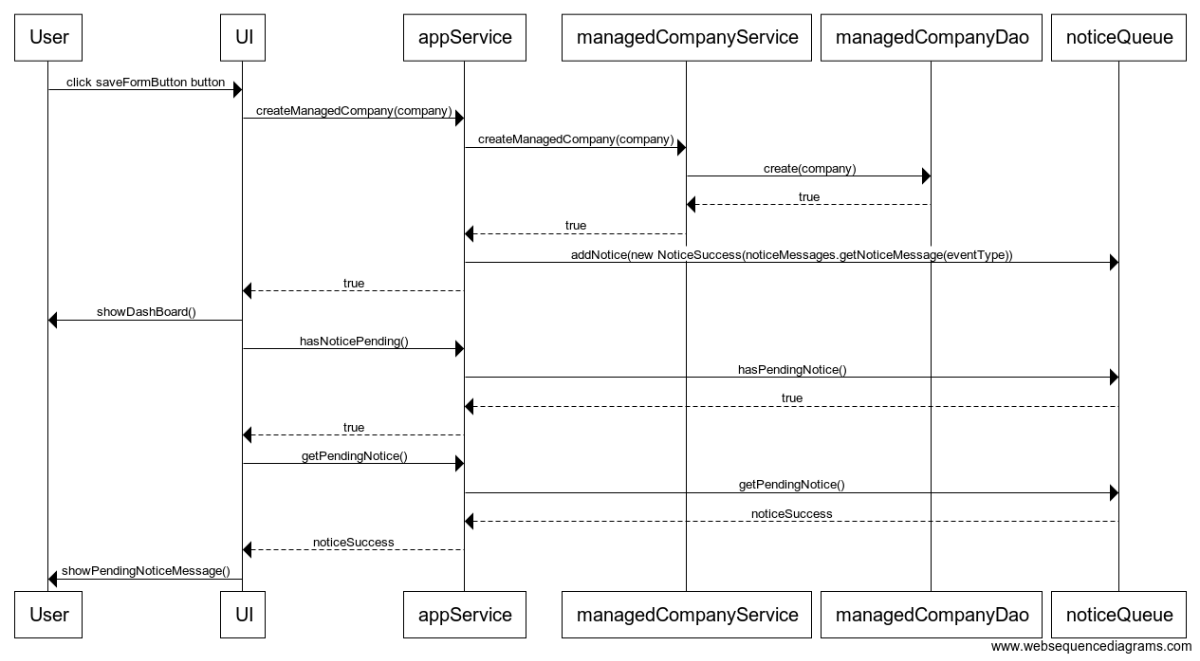
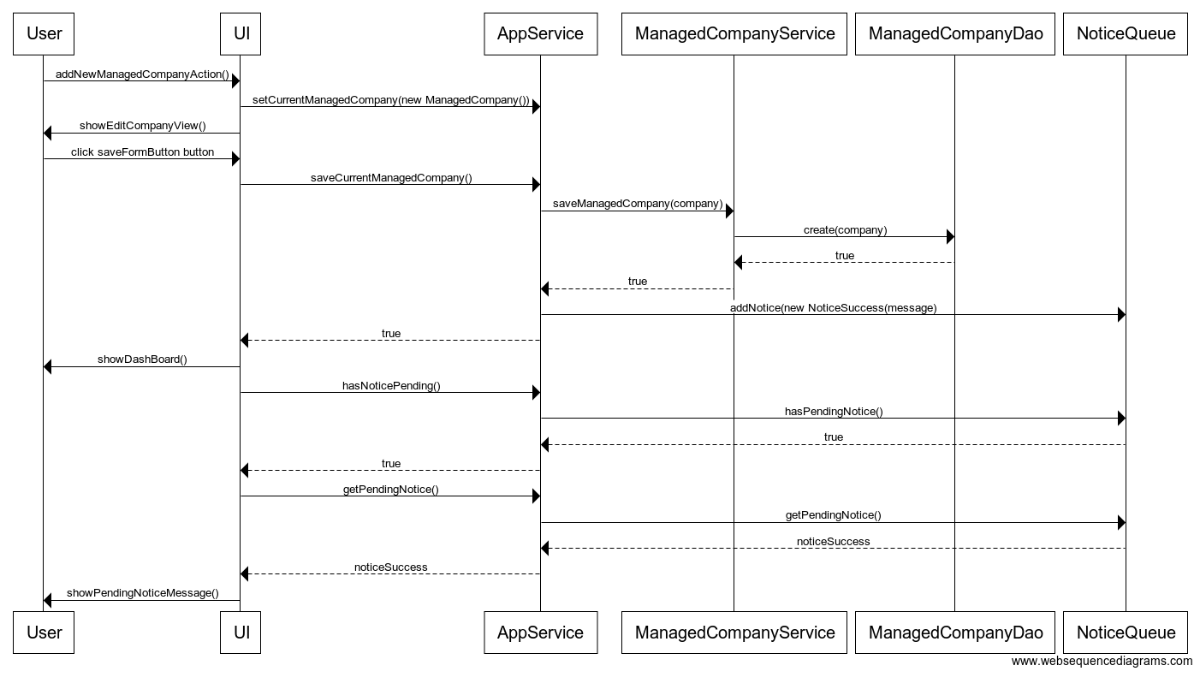
dokumentaatio

diff --git a/Kevytlaskutus/src/main/java/kevytlaskutus/ui/FormActionSaveInvoice.java b/Kevytlaskutus/src/main/java/kevytlaskutus/ui/FormActionSaveInvoice.java
@@ -5,21 +5,30 @@
  */
 package kevytlaskutus.ui;
 
+import java.math.BigDecimal;
+import java.util.ArrayList;
 import java.util.HashMap;
+import java.util.List;
 import javafx.scene.Node;
 import kevytlaskutus.domain.AppService;
 import kevytlaskutus.domain.CustomerCompany;
+import kevytlaskutus.domain.Invoice;
+import kevytlaskutus.domain.Product;
 
 /**
  *
  * @author ilkka
  */
-public abstract class FormCustomerCompanyAction extends FormAction {
-   
-    public FormCustomerCompanyAction(AppService appService) {
+public class FormActionSaveInvoice extends FormAction {
+    
+    private Invoice invoice; 
+    
+    public FormActionSaveInvoice(AppService appService) {
         super(appService);
     }
     
-    public abstract boolean execute();
-   
+    @Override
+    public boolean execute() {
+        return super.appService.saveCurrentInvoice();
+    }
 }

diff --git a/Kevytlaskutus/src/main/java/kevytlaskutus/ui/FormActionFactory.java b/Kevytlaskutus/src/main/java/kevytlaskutus/ui/FormActionFactory.java
@@ -18,9 +18,9 @@ public class FormActionFactory {
     public FormActionFactory(AppService appService) {
         this.appService = appService;
         this.commands = new HashMap<>();
-        this.commands.put("SaveManagedCompany", new FormActionSaveNewManagedCompany(appService));
-        this.commands.put("SaveCustomerCompany", new FormActionSaveNewCustomerCompany(appService));
-        this.commands.put("SaveInvoice", new FormActionSaveNewInvoice(appService));
+        this.commands.put("SaveManagedCompany", new FormActionSaveManagedCompany(appService));
+        this.commands.put("SaveCustomerCompany", new FormActionSaveCustomerCompany(appService));
+        this.commands.put("SaveInvoice", new FormActionSaveInvoice(appService));
     }
     
     public boolean execute(String actionType) {        

diff --git a/Kevytlaskutus/src/main/java/kevytlaskutus/domain/AppService.java b/Kevytlaskutus/src/main/java/kevytlaskutus/domain/AppService.java
@@ -80,7 +80,7 @@ public class AppService {
             return false;
         }
         
-        boolean result = this.managedCompanyService.saveCurrentManagedCompany(currentManagedCompany);
+        boolean result = this.managedCompanyService.saveManagedCompany(currentManagedCompany);
         this.addNoticeToQueue(result, noticeMessages.getNoticeMessage("save" + this.currentManagedCompany.getClass().getSimpleName()));
         return result;
     }

diff --git a/Kevytlaskutus/src/main/java/kevytlaskutus/domain/ManagedCompanyService.java b/Kevytlaskutus/src/main/java/kevytlaskutus/domain/ManagedCompanyService.java
@@ -33,7 +33,7 @@ public class ManagedCompanyService {
      * @param company the ManagedCompany object to be saved.
      * @return boolean result of operation 
      */
-    public boolean saveCurrentManagedCompany(ManagedCompany company) {
+    public boolean saveManagedCompany(ManagedCompany company) {
         boolean result = false;
         if (company.getId() == 0) {
             result = this.createManagedCompany(company);

diff --git a/Kevytlaskutus/src/main/java/kevytlaskutus/ui/FormActionSaveManagedCompany.java b/Kevytlaskutus/src/main/java/kevytlaskutus/ui/FormActionSaveManagedCompany.java
@@ -7,9 +7,9 @@ import kevytlaskutus.domain.*;
 /**
  * Action to execute a new managed company.
  */
-public class FormActionSaveNewManagedCompany extends FormManagedCompanyAction {
+public class FormActionSaveManagedCompany extends FormAction {
    
-    public FormActionSaveNewManagedCompany(AppService appService) {
+    public FormActionSaveManagedCompany(AppService appService) {
         super(appService);
     }
    

diff --git a/Kevytlaskutus/src/main/java/kevytlaskutus/ui/FormActionSaveCustomerCompany.java b/Kevytlaskutus/src/main/java/kevytlaskutus/ui/FormActionSaveCustomerCompany.java
@@ -7,9 +7,9 @@ import kevytlaskutus.domain.*;
 /**
  * Action to execute a new customer.
  */
-public class FormActionSaveNewCustomerCompany extends FormCustomerCompanyAction {
+public class FormActionSaveCustomerCompany extends FormAction {
    
-    public FormActionSaveNewCustomerCompany(AppService appService) {
+    public FormActionSaveCustomerCompany(AppService appService) {
         super(appService);
     }
 
